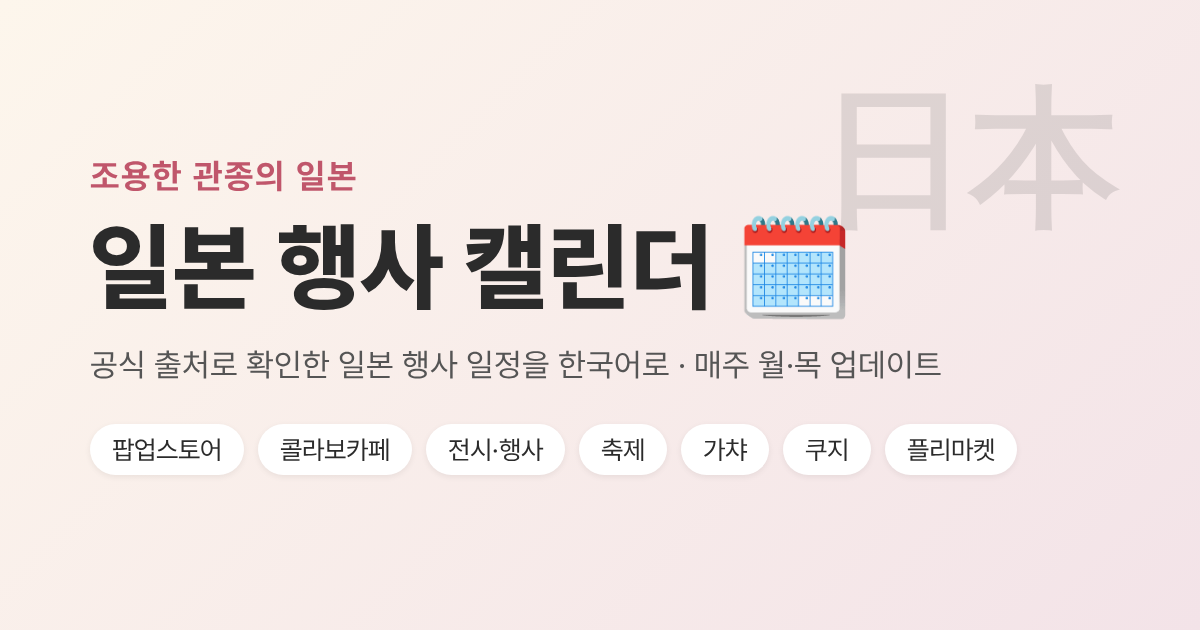
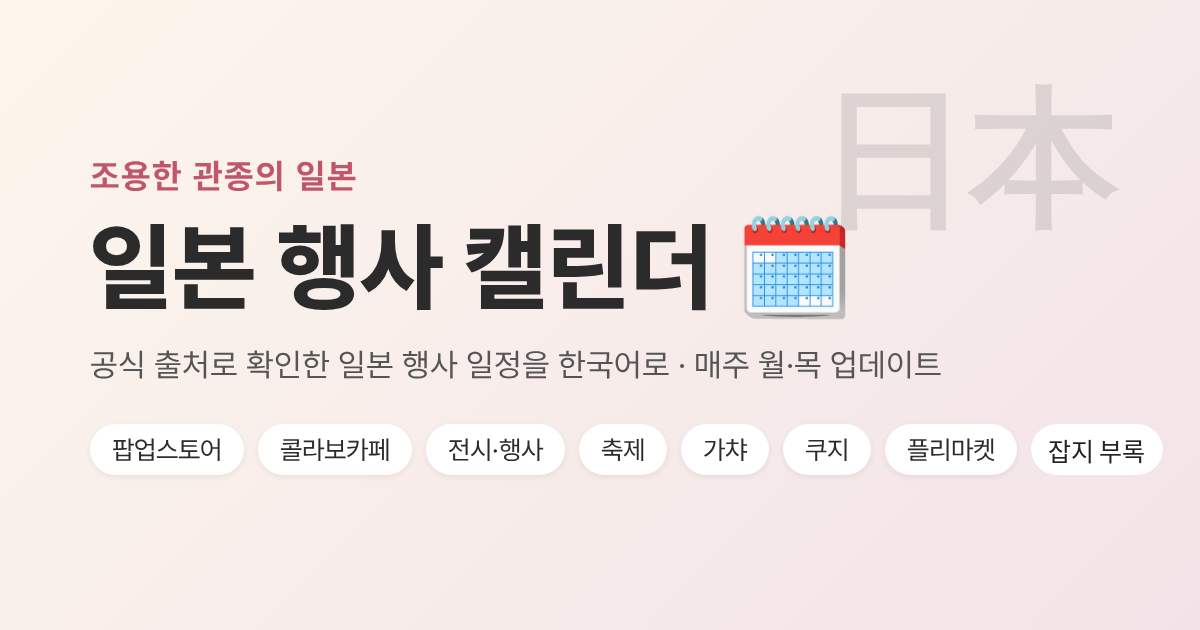
카드용 WebP 썸네일(thumbs/, 480px) 생성·원본은 자세히 보기용 유지, 뱅가드(ORB)·사카모토(http) 썸네일 해결, 누락 썸네일 3곳(간다 헌책 축제·조시가야 데즈쿠리이치) 공식 이미지, 쵸코야바 제목 번역, og.png에 잡지 부록 추가

Changed region(s): [[0.8633, 0.6635, 0.9867, 0.754]]

diff --git a/tools/mkthumbs.py b/tools/mkthumbs.py
@@ -1,0 +1,23 @@
+"""카드용 작은 WebP 썸네일 생성 (원본 thumbnail은 자세히 보기/갤러리용으로 그대로 둠).
+thumbs/<sha1>.webp (가로 최대 480px), events.json의 thumb_small에 상대경로 기록. 이미 있으면 건너뜀."""
+import json, hashlib, io, sys, requests
+from pathlib import Path
+from PIL import Image
+ROOT=Path(__file__).resolve().parent.parent; OUT=ROOT/"thumbs"; OUT.mkdir(exist_ok=True)
+UA={"User-Agent":"Mozilla/5.0 (Windows NT 10.0; Win64; x64) Chrome/130 Safari/537.36"}
+d=json.loads((ROOT/"events.json").read_text()); n=fail=0; used=set()
+for e in d["events"]:
+    u=e.get("thumbnail")
+    if not u: e.pop("thumb_small",None); continue
+    name=hashlib.sha1(u.encode()).hexdigest()[:16]+".webp"; p=OUT/name; used.add(name)
+    if not p.exists():
+        try:
+            r=requests.get(u,headers={**UA,"Referer":e.get("thumbnail_source") or e.get("official_url") or ""},timeout=30); r.raise_for_status()
+            im=Image.open(io.BytesIO(r.content)); im=im.convert("RGBA" if im.mode in("RGBA","LA","P") else "RGB")
+            if im.width>480: im=im.resize((480,round(im.height*480/im.width)),Image.LANCZOS)
+            im.save(p,"WEBP",quality=78,method=6); n+=1
+        except Exception as x: print("FAIL",e["title_ko"],u,x); fail+=1; e.pop("thumb_small",None); continue
+    e["thumb_small"]="thumbs/"+name
+for f in OUT.glob("*.webp"):
+    if f.name not in used: f.unlink()
+(ROOT/"events.json").write_text(json.dumps(d,ensure_ascii=False,indent=2)+"\n"); print("new",n,"fail",fail)
